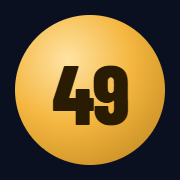
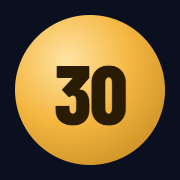
feat(brand): rename to 30 Lab to match the 1-30 number range
- logo, icon.svg, apple-icon.png and page titles show 30 / 30 LAB
- regenerate favicon.ico from icon.svg (it still showed the old "6" ball)
- update /about, README and frontend CLAUDE.md
- changelog: mark the 1-30 frontend tasks done, move the backend
  rename tasks over to 30 Lab

Changed region(s): [[0.2778, 0.3611, 0.6389, 0.7222], [0.6111, 0.3611, 0.7222, 0.6944], [0.5833, 0.6944, 0.6389, 0.7222]]

diff --git a/frontend/src/components/BrandLogo.tsx b/frontend/src/components/BrandLogo.tsx
@@ -1,7 +1,7 @@
 import { Link } from "@/i18n/navigation";
 import { cn } from "@/lib/utils";
 
-// 品牌標誌：金色的「49」號碼球 + 字標「49 LAB」。品牌名不翻譯。
+// 品牌標誌：金色的「30」號碼球 + 字標「30 LAB」（30 = 號碼範圍 1–30）。品牌名不翻譯。
 // 不用「六合彩」「Mark Six」：那是香港賽馬會的商標（見 /about 的商標聲明）
 export function BrandLogo({ className }: { className?: string }) {
   return (
@@ -10,9 +10,9 @@ export function BrandLogo({ className }: { className?: string }) {
         aria-hidden="true"
         className="grid size-7 shrink-0 place-items-center rounded-full bg-[radial-gradient(circle_at_35%_30%,#ffe3a3_0,var(--color-gold)_45%,#b9811c_100%)] font-num text-[14px] font-extrabold tracking-[-0.02em] text-gold-ink md:size-8.5 md:text-[17px]"
       >
-        49
+        30
       </span>
-      <span className="truncate font-num text-lg font-extrabold tracking-[0.1em] whitespace-nowrap sm:text-xl sm:tracking-[0.12em] md:text-2xl">49 LAB</span>
+      <span className="truncate font-num text-lg font-extrabold tracking-[0.1em] whitespace-nowrap sm:text-xl sm:tracking-[0.12em] md:text-2xl">30 LAB</span>
     </Link>
   );
 }

diff --git a/frontend/src/app/[locale]/layout.tsx b/frontend/src/app/[locale]/layout.tsx
@@ -17,7 +17,7 @@ const notoSansTC = Noto_Sans_TC({
   preload: false,
 });
 
-// 數字與品牌字：倒數、積分、號碼球、49 LAB（窄體，數字等寬）
+// 數字與品牌字：倒數、積分、號碼球、30 LAB（窄體，數字等寬）
 const barlow = Barlow_Condensed({
   variable: "--font-barlow",
   subsets: ["latin"],

diff --git a/frontend/src/app/global-not-found.tsx b/frontend/src/app/global-not-found.tsx
@@ -4,7 +4,7 @@ import "./globals.css";
 
 // 完全對不上任何路由時顯示（不在 [locale] 底下，拿不到語系，所以中英並列）
 export const metadata: Metadata = {
-  title: "404 | 49 Lab",
+  title: "404 | 30 Lab",
 };
 
 export default function GlobalNotFound() {

diff --git a/docs/api-changelog.md b/docs/api-changelog.md
@@ -16,6 +16,20 @@
 
 ---
 
+## 2026-10-23（前端：號碼 1~30、品牌改名 30 Lab）
+- 【已完成】回覆下面「號碼改成 1~30」那筆的【待前端】：
+  1. 選號盤、機選、3D 攪珠機的球數和刻度環、開獎前的載入動畫、冷熱號碼都改讀 `rules.maxNumber`；選號盤 ≤ 36 個號碼排 6 欄（30 = 6 × 5），更多排 7 欄；登入頁背景的模糊號碼球不再出現大於 30 的號碼
+  2. 前端的預設規則（`GET /api/game/rules` 回應前用）改成和後端一致：30 球、593,775 種組合、頭獎保底 200,000；玩法說明的機率、獎金本來就是從 API 讀；文案裡寫死的「6/49」「1–49」都拿掉
+  3. 下注失敗 `rule: "ballNumber"`：顯示「號碼必須在 1–{maxNumber} 之間，請重新選號」，並重新抓遊戲規則
+- 【已完成】品牌從 49 Lab 改名為 **30 Lab**（30 = 號碼範圍 1–30）：logo（金色「30」球 + 「30 LAB」）、`icon.svg`、`favicon.ico`、`apple-icon.png`、網頁標題、404 標題、`/about`、根目錄 `README.md`、`frontend/README.md`、`frontend/CLAUDE.md`
+- GitHub 專案由用戶改名成 `rain-sc/30-lab`（舊網址 GitHub 會自動轉址）；改完後本機執行 `git remote set-url origin https://github.com/rain-sc/30-lab.git`
+- 【待後端】下面「品牌改成 49 Lab」那筆暫停的【待後端】恢復，名稱改用 **30 Lab**：
+  1. `backend/pom.xml`：`<name>`、`<description>` → `30 Lab backend`；`artifactId` 可以改成 `30-lab-backend`，不改也沒關係
+  2. `application.properties`：`spring.application.name=30-lab-backend`
+  3. Swagger 標題設成「30 Lab API」，改完重新匯出 `docs/api/openapi.json`
+  4. 根目錄 `CLAUDE.md` 的標題、第一段說明（目前還寫「六合彩模擬遊戲」「6/49 選號網頁遊戲」→ 例如「1–30 選 6 個號碼的選號遊戲」）；`backend/CLAUDE.md`、`docs/` 裡把專案稱為 Mark Six Lab 的地方
+  - 不用改的內部名稱和之前一樣（`marksixlab` 資料庫、Docker、`msl_token`）；選做的 Java 套件改名如果要做，`com.lab49` 改成例如 `com.lab30`（Java 套件不能用數字開頭）
+
 ## 2026-10-23（後端：號碼改成 1~30、新的獎金表，資料會清空）
 - 原因：49 球的頭獎機率是 1 / 13,983,816，每 5 分鐘一期也幾乎不可能有人中，玩家體驗太差。改成 30 球：頭獎 1 / 593,775、**任何獎約 1 / 13.3**
 - 球數改成後端設定 `app.game.max-number`（目前 30），以後要再調整只改設定、不改程式；**前端一律從 `GET /api/game/rules` 的 `maxNumber` 讀，不要寫死**
@@ -39,17 +53,18 @@
 - **資料會清空**（舊的期數、注單是 49 球開出來的，會有大於 30 的號碼）：刪除整個 `marksixlab` 資料庫和 Redis 的 session，**所有帳號都要重新註冊**；舊的 cookie 會收到 `401`。機器人腳本會自動重新註冊
 - 機器人腳本 `tools/bot-players/bots.mjs` 已改成從 `maxNumber` 讀號碼範圍
 - 已用副本（1 分鐘一期）和 8088 驗證：rules 回傳 30 球和新獎金；下注 `31`、`0` → `40001` / `ballNumber`；開獎號碼都 ≤ 30；冷熱號碼 30 筆；機器人下注、結算、中獎名單正常
-- 【待前端】
+- 【已完成】（前端 2026-10-23，見上面那筆）
   1. 選號盤、機選、3D 攪珠機的球數、冷熱號碼的格子改用 `rules.maxNumber`（目前寫死 49 的地方：`NumberPad.tsx`、`features/draw/rules.ts`、`hotColdStats.ts`、`stage/engine.ts`、`stage/crystal.ts`、`StagePreview.tsx`、i18n 文案）；30 個號碼可以排成 5 × 6 或 6 × 5
   2. 遊戲規則 / 說明裡的機率、獎金如果有寫死，改成從 `GET /api/game/rules` 讀
   3. 下注失敗的 `rule: "ballNumber"` 加翻譯（例如「號碼必須在 1~30 之間」，數字用 `maxNumber`）
-  4. **品牌**：改成 30 球之後「49 Lab」名稱不符，用戶決定**一起改名，新名稱待定**。下面那筆「品牌改成 49 Lab」的【待後端】先暫停，等新名稱確定後前後端一起改
+  4. **品牌**：改成 30 球之後「49 Lab」名稱不符，用戶決定**一起改名**：新名稱是 **30 Lab**，前端已改，後端的部分見上面那筆
 
 ## 2026-10-23（前端：對外的品牌改成 49 Lab）
 - 原因：「六合彩」「Mark Six」是香港賽馬會的商標，公開給別人玩時不能拿來當自己的品牌名稱
 - 【已完成】前端：網頁上的 logo、網頁標題、favicon 改成 **49 Lab**；登入頁、遊戲端頁尾加上免責聲明；註冊加同意勾選（只在前端檢查，**後端不用記錄**）；新增不用登入的 `/about`（關於、免責、私隱、商標聲明）；根目錄 `README.md`、`frontend/README.md`、`frontend/CLAUDE.md` 已改
 - GitHub 專案由用戶改名（預計 `rain-sc/49-lab`，舊網址 GitHub 會自動轉址）；改完後本機執行 `git remote set-url origin https://github.com/rain-sc/49-lab.git`
-- 【待後端】把**看得到的名稱**改成 49 Lab：
+- 【已取代】品牌後來改名為 30 Lab，下面的【待後端】改照最上面「品牌改名 30 Lab」那筆做（名稱換成 30 Lab，其餘相同）
+- ~~【待後端】~~ 把**看得到的名稱**改成 49 Lab：
   1. `backend/pom.xml`：`<name>`、`<description>`（`Mark Six Lab backend` → `49 Lab backend`）；`artifactId` 可以一起改成 `49-lab-backend`，不改也沒關係
   2. `application.properties`：`spring.application.name=49-lab-backend`
   3. Swagger 標題：目前是預設的「OpenAPI definition」，可以設成「49 Lab API」，改完照樣重新匯出 `docs/api/openapi.json`

diff --git a/frontend/CLAUDE.md b/frontend/CLAUDE.md
@@ -146,9 +146,9 @@ src/
 
 ## 品牌與免責聲明（公開給別人玩）
 
-- 對外的品牌是 **49 Lab**（`BrandLogo`：金色「49」球 + 「49 LAB」、`icon.svg`、`apple-icon.png`、`Metadata.title`）。
+- 對外的品牌是 **30 Lab**（號碼範圍 1–30；`BrandLogo`：金色「30」球 + 「30 LAB」、`icon.svg`、`apple-icon.png`、`Metadata.title`）。
   **畫面上不要用「六合彩」「Mark Six」當名稱**（香港賽馬會的商標），只能在 `/about` 的商標聲明、免責文字裡描述性地提到。
-  GitHub 專案、README 也改成 49 Lab；程式內部的識別名稱（Java 套件 `com.marksixlab`、資料庫 `marksixlab`、cookie `msl_token`、儲存 key `msl:*`、Docker 容器）不對外，維持原樣
+  GitHub 專案（`rain-sc/30-lab`）、README 也改成 30 Lab；程式內部的識別名稱（Java 套件 `com.marksixlab`、資料庫 `marksixlab`、cookie `msl_token`、儲存 key `msl:*`、Docker 容器）不對外，維持原樣
 - 「虛擬積分、不涉及真錢、與香港賽馬會無關」放在每個人一定會看到的地方（設計稿 https://claude.ai/artifact/FsPcpgogpww4UbGjo5f7jq ）：
   - 登入頁表單卡片下方：`LegalNotice`
   - 遊戲端每一頁的頁尾：`SiteFooter`（在 `(game)/layout`；手機大廳頁尾後面多留「待下注」列的高度）

diff --git a/README.md b/README.md
@@ -1,4 +1,4 @@
-# 49 Lab
+# 30 Lab
 
 一個用**虛擬積分**遊玩的選號開獎模擬遊戲（從 1–30 選 6 個號碼），作為全端開發的學習與作品專案。**不涉及真錢**，積分不能購買、兌換或轉讓，與任何官方彩票無關。
 
@@ -20,7 +20,7 @@
 ## 專案結構
 
 ```
-49-lab/
+30-lab/
 ├── backend/            Spring Boot API（埠 8088）
 ├── frontend/           Next.js 網頁（埠 3100）
 ├── docs/               遊戲規則、資料模型、狀態機、API 契約

diff --git a/frontend/README.md b/frontend/README.md
@@ -1,6 +1,6 @@
-# 49 Lab — 前端
+# 30 Lab — 前端
 
-49 Lab 的網頁：用虛擬積分玩的 6/49 選號遊戲。Next.js 16（App Router）· React 19 · TypeScript · Tailwind CSS 4。
+30 Lab 的網頁：用虛擬積分玩的選號開獎遊戲（從 1–30 選 6 個號碼）。Next.js 16（App Router）· React 19 · TypeScript · Tailwind CSS 4。
 
 專案整體說明見 [../README.md](../README.md)，前端的開發約定見 [CLAUDE.md](CLAUDE.md)。
 
